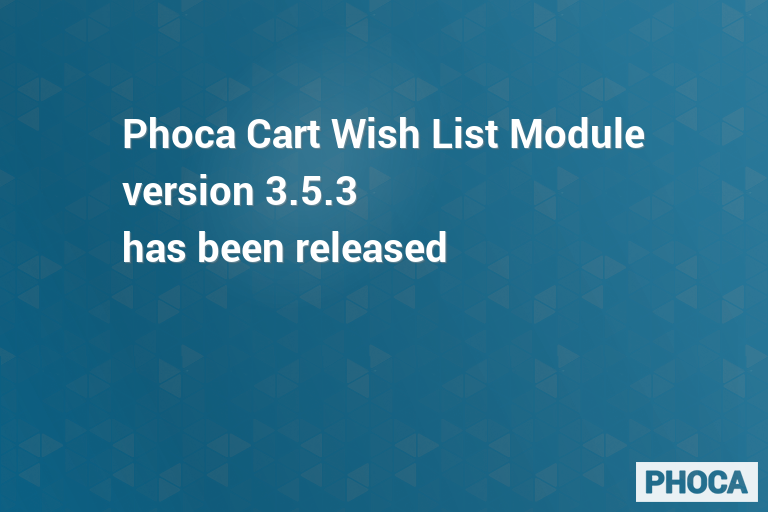
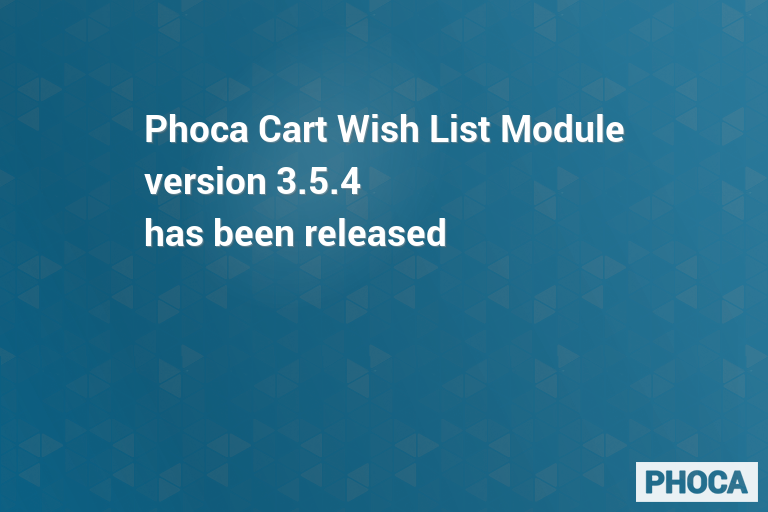
3.5.4
3.5.4

Changed region(s): [[0.1562, 0.2188, 0.8438, 0.5312]]

diff --git a/README.MD b/README.MD
@@ -56,7 +56,7 @@ Phoca Cart Wish List Module - a Joomla! CMS module which displays Phoca Cart wis
 
 ## Version
 
-3.5.3
+3.5.4
 
 
 
